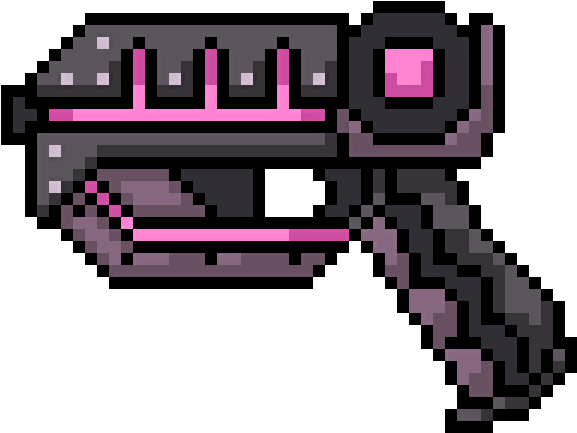
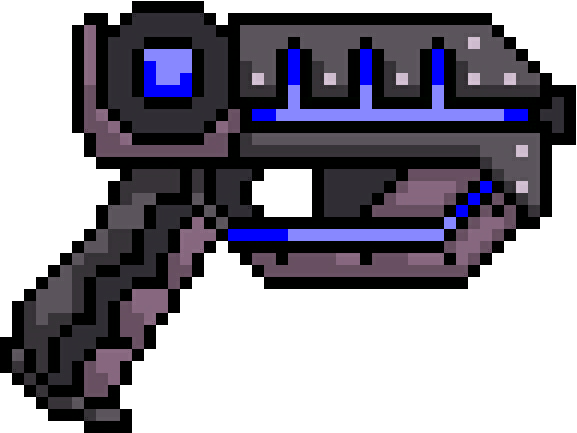
added laser animations and cropped vampire

diff --git a/src/assets/data/tilesets/hell_tiles_big.tsx b/src/assets/data/tilesets/hell_tiles_big.tsx
@@ -1,0 +1,4 @@
+<?xml version="1.0" encoding="UTF-8"?>
+<tileset version="1.10" tiledversion="1.12.2" name="hell_tiles_big" tilewidth="64" tileheight="64" tilecount="256" columns="16">
+ <image source="../../images/hell_tiles_big.jpg" width="1024" height="1024"/>
+</tileset>

diff --git a/src/assets/data/tilesets/hell_tiles.tsx b/src/assets/data/tilesets/hell_tiles.tsx
@@ -1,0 +1,4 @@
+<?xml version="1.0" encoding="UTF-8"?>
+<tileset version="1.10" tiledversion="1.12.2" name="hell_tiles" tilewidth="48" tileheight="48" tilecount="256" columns="16">
+ <image source="../../images/hell_tiles.jpg" width="768" height="768"/>
+</tileset>

diff --git a/src/assets/data/tilesets/old_hell_tiles.tsx b/src/assets/data/tilesets/old_hell_tiles.tsx
@@ -1,0 +1,4 @@
+<?xml version="1.0" encoding="UTF-8"?>
+<tileset version="1.10" tiledversion="1.12.2" name="hell_tiles" tilewidth="64" tileheight="64" tilecount="144" columns="12">
+ <image source="../../images/hell_tiles.jpg" width="768" height="768"/>
+</tileset>

diff --git a/src/game/the_surviving_vampire.py b/src/game/the_surviving_vampire.py
@@ -1,0 +1,113 @@
+from utils.async_clock import AsyncClock
+from utils.timer import Timer
+from utils.audio_player import AudioPlayer
+from random import randint, choice
+from game.settings import *  # import everything from settings.py
+from game.player import Player
+from game.sprites import *
+from game.groups import AllSprites
+from game.enemies import Enemy, Boss
+from game.homescreen import *
+from pytmx.util_pygame import load_pygame
+
+# TODO: test audioplayer ??
+# TODO: fix crash when powerups hit max capacity
+# TODO: organise folder structure and imports
+# TODO: fix death animation
+
+class Game:
+    def __init__(self): # Constructor 
+        self.running = True
+        self.clock = AsyncClock(fps=45)
+        self.font = pygame.font.Font(join('assets', 'images', 'Oxanium-Bold.ttf'), 40)
+        self.kill_count = 0
+        # self.high_score = load_high_score()
+
+        # groups
+        self.all_sprites = AllSprites()
+        self.collision_sprites = pygame.sprite.Group()
+        self.bullet_sprites = pygame.sprite.Group()
+        self.enemy_sprites = pygame.sprite.Group()
+        self.powerup_sprites = pygame.sprite.Group()
+        self.laser_sprites = pygame.sprite.Group()
+        self.orb_sprites = pygame.sprite.Group()
+        self.explosion_sprites = pygame.sprite.Group()
+        
+        #events
+        # TODO: need to stop enemy event when time_stop powerup activated ??
+        self.enemy_event_timer = Timer(400, lambda:Enemy(self.get_spawn_position(self.enemy_spawn_positions), choice(list(enemy_frames.items())), self.player, self.collision_sprites, self), repeat=True, autostart=True)
+        self.powerup_event_timer = Timer(15000, lambda:Powerup(self.powerup_spawn_positions.pop(randint(0, len(self.powerup_spawn_positions) - 1)), choice(list(POWERUP_SURFS.items())), (self.all_sprites, self.powerup_sprites), self.player), repeat=True, autostart=True)
+        self.boss_event_timer = Timer(60000, lambda:Boss(self.get_spawn_position(self.enemy_spawn_positions), self.player, self), repeat=True, autostart=True)
+        self.enemy_spawn_positions = []
+        self.powerup_spawn_positions = []
+        
+        #audio
+        self.shoot_sound = AudioPlayer('shoot.ogg')
+        self.shoot_sound.set_volume(0.25)
+        self.impact_sound = AudioPlayer('new_impact.ogg')
+        self.impact_sound.set_volume(0.25)
+        # self.music = pygame.mixer.Sound(join('assets', 'audio', 'my_first_mashup.ogg'))
+        # self.music.set_volume(0.55)
+        # self.music.play(loops = 0)
+
+        self.load_map()
+
+    def load_map(self):
+        map = load_pygame(join('assets', 'data', 'maps', 'world.tmx'))
+        for x, y, image in map.get_layer_by_name('Ground').tiles():
+            Sprite((x * TILE_SIZE, y * TILE_SIZE), image, self.all_sprites)
+        for obj in map.get_layer_by_name('Objects'):
+            CollisionSprite((obj.x, obj.y), obj.image, (self.all_sprites, self.collision_sprites))
+        for collision in map.get_layer_by_name('Collisions'):
+            CollisionSprite((collision.x, collision.y), pygame.Surface((collision.width, collision.height)), self.collision_sprites)
+        for marker in map.get_layer_by_name('Entities'):
+            if marker.name == 'Player':
+                self.player = Player((marker.x, marker.y), self.all_sprites, self.collision_sprites, gun_surf, self)
+            elif marker.name == 'Power up':
+                self.powerup_spawn_positions.append((marker.x, marker.y))
+            else:
+                self.enemy_spawn_positions.append((marker.x, marker.y))
+
+    def get_spawn_position(self, spawn_positions):
+        distance_from_player = 0
+        while distance_from_player < 700:
+            pos = choice(spawn_positions)
+            distance_from_player = pygame.math.Vector2.magnitude(pygame.math.Vector2(pos) - pygame.math.Vector2(self.player.rect.center))
+        return pos  
+    
+    def display_score(self):
+        self.text_surf = self.font.render(str(self.kill_count), True, 'gray25')
+        self.text_rect = self.text_surf.get_frect(topleft = (300, 25))
+        screen.blit(self.text_surf, self.text_rect)
+        pygame.draw.rect(screen, 'gray25', self.text_rect.inflate(20, 10).move(0, -6), 5, 10)
+
+    def display_lives(self):
+        for i in range(self.player.lives):
+            life_rect = life_surf.get_frect(topleft = (10 + (i * 85), 10))
+            screen.blit(life_surf, life_rect)
+    
+    # TEST ONLY: Draw all powerup images statically on left of screen so we can see the sizes
+    def display_all_powerups(self):
+        for i, powerup_surf in enumerate(POWERUP_SURFS.values()):
+            powerup_rect = powerup_surf.get_frect(topleft = (10, 100 + (i * 85)))
+            screen.blit(powerup_surf, powerup_rect)
+        
+    async def run(self):
+        while self.running:
+            dt = await self.clock.tick() / 1000
+            for event in pygame.event.get():
+                if event.type == pygame.QUIT:
+                    return False
+            self.all_sprites.update(dt)
+            if self.player.is_dead:
+                # self.music.stop()
+                return True
+            
+            self.all_sprites.draw(self.player.rect.center)
+            self.display_score()
+            self.display_lives()
+            # self.display_all_powerups()
+            self.enemy_event_timer.update()
+            self.powerup_event_timer.update()
+            self.boss_event_timer.update()
+            pygame.display.update()

diff --git a/src/game/settings.py b/src/game/settings.py
@@ -20,8 +20,6 @@ rifle_surf = load_image("assets", "images", "rifle", "0.png", scale=3)
 
 lasergun_surf = load_image("assets", "images", "powerups", "lasergun.png", scale=1/6)
 
-lasergun_surf = pygame.transform.flip(lasergun_surf, True, False)
-
 laser_surf = pygame.transform.scale(
     pygame.image.load(join("assets", "images", "powerups", "laserbeam.png")), (WINDOW_WIDTH, 2),
 ).convert_alpha()
@@ -84,3 +82,4 @@ pistol_frames = load_images("assets", "images", "gun", "shoot", scale=2.5)
 machinegun_frames = load_images("assets", "images", "machinegun", scale=3)
 shotgun_frames = load_images("assets", "images", "shotgun", scale=3)
 rifle_frames = load_images("assets", "images", "rifle", scale=3)
+lasergun_frames = load_images("assets", "images", "laser_shoot", scale=1/6)

diff --git a/src/game/player.py b/src/game/player.py
@@ -58,7 +58,8 @@ class Player(pygame.sprite.Sprite):
         self.is_dead = False
         # self.death_time = 0
         
-        self.gun = Pistol(pistol_surf, self, self.game.all_sprites, self.game)
+        # self.gun = Pistol(pistol_surf, self, self.game.all_sprites, self.game)
+        self.gun = Lasergun(lasergun_surf, self, self.game.all_sprites, self.game)
         # self.gun = Shotgun(shotgun_surf, self, self.game.all_sprites, self.game)
         # self.gun = Rifle(rifle_surf, self, self.game.all_sprites, self.game)
         # self.gun = Machinegun(machinegun_surf, self, self.game.all_sprites, self.game)

diff --git a/src/game/weapons.py b/src/game/weapons.py
@@ -159,7 +159,8 @@ class Machinegun(Pistol):
 class Lasergun(Pistol):
     def __init__(self, surf, player, groups, game):
         super().__init__(surf, player, groups, game)
-        # self.animation_frames = lasergun_frames
+        self.animation_frames = lasergun_frames
+        
     def bullet_collision(self):
         collision_sprites = pygame.sprite.groupcollide(self.game.bullet_sprites, self.game.enemy_sprites, False, False, pygame.sprite.collide_mask)
         for bullet, enemies in collision_sprites.items():

diff --git a/src/utils/audio_player.py b/src/utils/audio_player.py
@@ -36,7 +36,7 @@ class AudioPlayer:
 			# el.load()
 			self.audio = el
 		else:
-			file_path = f"/assets/audio/{self.file_name}"
+			file_path = f"assets/audio/{self.file_name}"
 			self.audio = pygame.mixer.Sound(file_path)
 		return self
 
